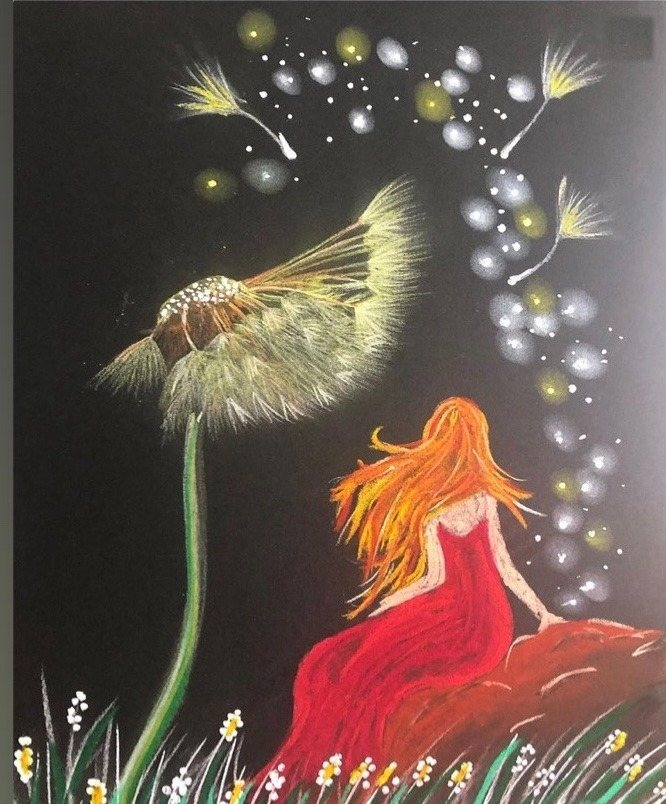
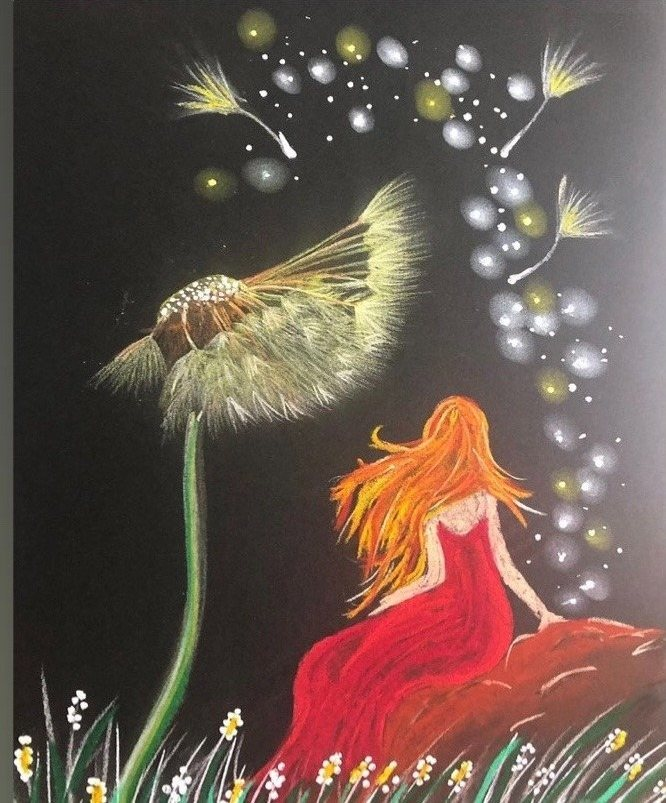
Plate IV: the retouched corner re-filled from the paper's own gradient
The first round took Instagram's carousel glyph out of this picture but
filled the hole with the darker paper from beside it, so a flat, hard-
edged dark square sat where the white one had been — plain at loose-print
size. The patch is now filled from a surface fitted to the ring of
untouched paper around it (the corner is lighter, as the photograph's
vignette makes it), with the paper's own grain laid over it and the edge
feathered over eight pixels, so there is no straight edge left to find.
The one pale screenshot row at the top is trimmed too (666x803;
GALLERY_SIZES follows). The provenance note in the file says what was
done; the original photograph is still wanted from Irene.

Claude-Session: https://claude.ai/code/session_01XUmt6vFxAdG1PUjwhavU8Z

diff --git a/gallery-data.js b/gallery-data.js
@@ -52,7 +52,7 @@ window.GALLERY_SIZES = {
   "Category 1/download.jpg": [750, 1000],
   "Category 1/download2.jpg": [641, 817],
   "Category 1/download 3.jpg": [562, 950],
-  "Category 1/download 5.jpg": [666, 804],
+  "Category 1/download 5.jpg": [666, 803],
   "Category 1/download6.jpg": [669, 1000],
   "Category 2/download (1).jpg": [721, 1000],
   "Category 2/download2.jpg": [791, 1000],
